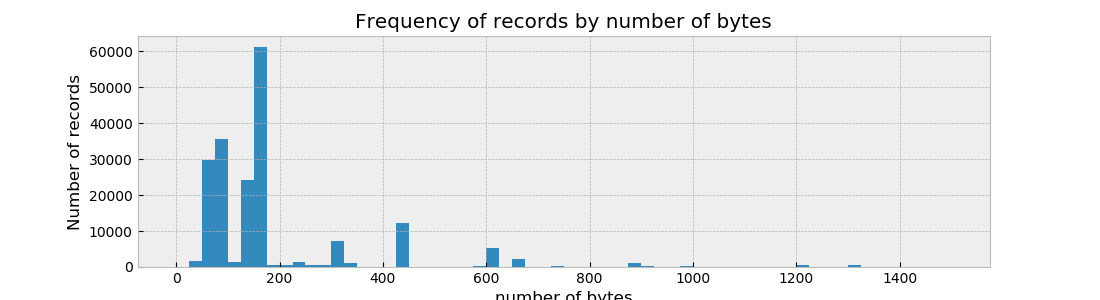
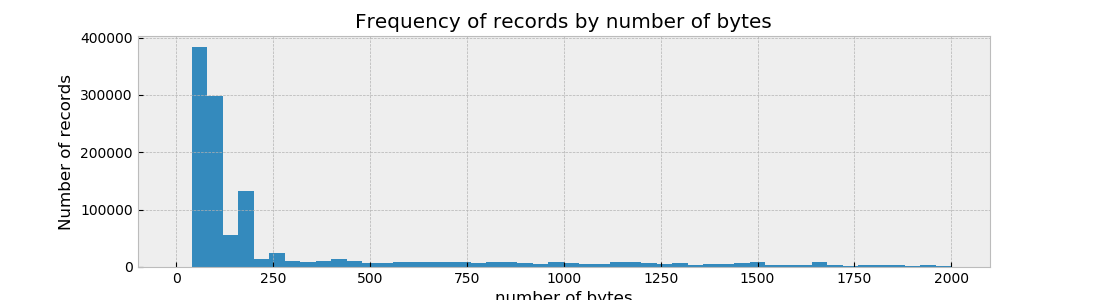
timediv fitting results

diff --git a/data/UGR16.py b/data/UGR16.py
@@ -6,40 +6,61 @@ import os
 def do_write(df, filename):
     # if file does not exist write header 
     if not os.path.isfile(filename):
-        df.to_csv(filename, header='column_names')
+        df.to_csv(filename, header='column_names', index=False)
     else: # else it exists so append without writing the header
-        df.to_csv(filename, mode='a', header=False)
+        df.to_csv(filename, mode='a', header=False, index=False)
 
-datafile = 'D:\\research_local_data\\april_week3_csv\\april_week3_csv\\uniq\\april.week3.csv.uniqblacklistremoved'
-# outputfile = 'output\\selected_data%s.csv'
-outputfile = 'output\\day_1_internal_ip_only.csv'
-# datafile = 'D:\\research_local_data\\spam_april_week3_csv\\april\\week3\\spam_flows_cut.csv'
+a_occur = {}
+target_colname = 'da'
+def cal_stats(df):
+    for r in zip(df[target_colname]):
+        if r[0] in a_occur:
+            a_occur[r[0]] += 1
+        else:
+            a_occur[r[0]] = 1
+
+
+normal_datafile = 'D:\\research_local_data\\april_week3_csv\\april_week3_csv\\uniq\\april.week3.csv.uniqblacklistremoved'
+spam_datafile = 'D:\\research_local_data\\spam_april_week3_csv\\april\\week3\\spam_flows_cut.csv'
+
+outputfile = 'output\\day_1_allinternalsada.csv'
+outputfile = 'output\\day_1_42.219.153.89.csv'
+
 columnName = ['te', 'td', 'sa', 'da', 'sp', 'dp', 'pr', 'flg', 'fwd', 'stos', 'pkt', 'byt', 'lable']
 theDate = '2016-04-11'
+theLocalIp = '42.219.153.89'
 theLocalIp = '42.219'
-userFilter = {}
+
 filteredList = []
 chunkNum = 0
 totalLines = 0
 
 starttime = datetime.now()
 chunksize = 10 ** 6
-for chunk in pd.read_csv(datafile, chunksize=chunksize, header=None, names = columnName):
-    first_rows = chunk.head(n=5)
-    # print(first_rows)
-    # print(chunk[0:1, 'te'].str.split(' ')[0])
-    
-    chunk = chunk[(chunk['te'].str.startswith(theDate)) & (chunk['sa'].str.startswith(theLocalIp))
-                    & (chunk['da'].str.startswith(theLocalIp))]
-    # print(chunk.head(n=5))
+
+for chunk in pd.read_csv(normal_datafile, chunksize=chunksize, header=None, names = columnName):    
+    block_time1 = datetime.now()
+    # chunk = chunk[(chunk['te'].str.startswith(theDate)) & 
+    #             ((chunk['sa'].str.startswith(theLocalIp)) | (chunk['da'].str.startswith(theLocalIp)))]
+    # chunk = chunk[(chunk['te'].str.startswith(theDate)) & (chunk['sa'].str.startswith(theLocalIp))]
+    chunk = chunk[chunk['te'].str.startswith(theDate) & chunk['da'].str.startswith(theLocalIp)]
+
     if (len(chunk.index) == 0):
-        break
+        continue
+        # break
     else:
         chunkNum += 1
         totalLines += len(chunk.index)
-        print(chunkNum, totalLines)
-        # chunk.to_csv(outputfile % chunkNum)
-        do_write(chunk, outputfile)
+        cal_stats(chunk)
+        print(len(chunk.index), "to write")
+        # do_write(chunk, outputfile)
+        block_time2 = datetime.now()
+        print("blockNum", chunkNum, "cur_total_record", totalLines, "time:", (block_time2-block_time1).seconds)
+    if chunkNum == 154:
+        break
+
+most_a = sorted( ((v,k) for k,v in a_occur.items()), reverse=True)
+print("most "+target_colname, most_a[:10])
 
 endtime = datetime.now()
 print('process time', (endtime-starttime).seconds)

diff --git a/algorithms/GaussianMixtureModel.py b/algorithms/GaussianMixtureModel.py
@@ -1,0 +1,68 @@
+import numpy as np
+import pandas as pd
+import matplotlib.pyplot as plt
+from sklearn import mixture 
+
+class SourceData(object):
+    def __init__(self, source_data):
+        self.all_record = pd.read_csv(source_data)
+        
+    def plot_source_distribution(self):
+        plt.style.use('bmh')
+        colors = ['#348ABD', '#A60628', '#7A68A6', '#467821', '#D55E00', 
+                '#CC79A7', '#56B4E9', '#009E73', '#F0E442', '#0072B2']
+
+        fig = plt.figure(figsize=(11,3))
+        _ = plt.title('Frequency of records by number of bytes')
+        _ = plt.xlabel('number of bytes')
+        _ = plt.ylabel('Number of records')
+        _ = plt.hist(self.all_record['byt'].values, 
+                    range=[0, 5000], bins=100, histtype='stepfilled')
+
+        fig.savefig('T00_data_dis')
+
+class GMMs(object):
+    def __init__(self, data_col, t_str, model='normal'):
+        X_train = np.reshape(data_col.values, (-1, 1))
+        if model == 'AIC':
+            self.build_models(X_train)
+        else:
+            clf = mixture.GaussianMixture(n_components=7, covariance_type='full')
+            clf.fit(X_train)
+
+            # x = np.linspace(np.min(X_train), np.max(X_train), len(X_train))
+            x = np.linspace(0, 5000, 5000)
+
+            # Plot the data to which the GMM is being fitted
+            x = np.reshape(x, (-1, 1))
+            logprob = clf.score_samples(x) # log-probabilities
+            pdf = np.exp(logprob)
+
+            resp = clf.predict_proba(x) # to predict posterior probabilities/ responsibilities
+            pdf_individual = resp * pdf[:, np.newaxis]
+
+            fig = plt.figure()
+            _ = plt.title('estimated pdf of 42.219.153.89 day 1, T=%s' % t_str)
+            _ = plt.xlabel('number of bytes')
+            _ = plt.ylabel('Number of records')
+            _ = plt.hist(data_col.values, density = 1,
+                    range=[0, 5000], bins=100, histtype='stepfilled')
+            _ = plt.plot(x, pdf, color='blue')
+            _ = plt.plot(x, pdf_individual, '--k')
+            fig.savefig('rect_timediv/T%s_gmm_pdf' % t_str)
+    
+    def build_models(self):
+        n_components = np.arange(1, 21)
+        models = [GaussianMixture(n, covariance_type='full', random_state=0).fit(X_train)
+          for n in n_components]
+
+if __name__ == "__main__":
+    # a = SourceData('./../data/output/T00_day_1_42.219.153.89.csv')
+    # a.plot_source_distribution()
+    t_str = '11'
+    for t in range(0, 24):
+        t_str = str(int(t/10)) + str(t%10)
+        a = SourceData('./../data/day_1_42.219.153.89/rectified_hour_division/T%s_day_1_42.219.153.89.csv' % t_str)
+        # a = SourceData('./../data/day_1_42.219.153.89/day_1_42.219.153.89.csv')
+    
+        b = GMMs(a.all_record['byt'], t_str)

diff --git a/data/split_timestamp.py b/data/split_timestamp.py
@@ -1,0 +1,39 @@
+import pandas as pd
+import os
+
+def do_write(df, filename):
+    # if file does not exist write header 
+    if not os.path.isfile(filename):
+        df.to_csv(filename, header='column_names', index=False)
+    else: # else it exists so append without writing the header
+        df.to_csv(filename, mode='a', header=False, index=False)
+
+def filter(source_data):
+    all_record = pd.read_csv(source_data)
+    print(all_record.tail())
+    for t in range(0, 24):
+        t_str = str(int(t/10)) + str(t%10)
+
+        print('2016-04-11 %s' % t_str),
+        df = all_record[all_record['te'].str.startswith('2016-04-11 %s' % t_str)]
+        print('=======')
+        print(df.head())
+        print(df.tail())
+        do_write(df, './../data/output/T%s_day_1_42.219.153.89.csv' % t_str)
+    
+def rectify_byt():
+    source_data = './../data/day_1_42.219.153.89/original_hour_division/T%s_day_1_42.219.153.89.csv'
+    for t in range(0, 24):
+        t_str = str(int(t/10)) + str(t%10)
+        df = pd.read_csv(source_data % t_str)
+        # print(df.head())
+        df['byt'] = df['byt'].map(lambda x: int((x+50)/100) * 100)
+        # print(df.head())
+        print(len(df.index))
+        # do_write(df, './../data/day_1_42.219.153.89/rectified_hour_division/T%s_day_1_42.219.153.89.csv' % t_str)
+
+if __name__ == "__main__":
+    # source_data = './../data/output/day_1_42.219.153.89.csv'
+    # filter(source_data)
+
+    rectify_byt()

diff --git a/MeetingNotes/Feb1.md b/MeetingNotes/Feb1.md
@@ -6,7 +6,7 @@ We want all day 1 records that include local ip addresses in SourceA _*or*_ Dest
 
 For a entire day, find 10/20 users occurs the most, and how many times they occures, in SA or DA.
 
-Look at each user over time temporally. For each hour or 15 minutes.
+Look at each user over time temporally, instead of mixing all users together. For each hour or 15 minutes.
 
 ## Bayesian Approach
 

diff --git a/MeetingNotes/Feb8.md b/MeetingNotes/Feb8.md
@@ -1,0 +1,4 @@
+# Feb 8 Meeting Keynote
+
+most sa [(10667863, '42.219.156.211'), (10664359, '42.219.156.231'), (5982859, '42.219.159.95'), (3995830, '42.219.153.191'), (2760867, '42.219.155.28'), (2126619, '42.219.153.62'), (2031099, '42.219.159.85'), (1740711, '42.219.158.156'), (1366940, '42.219.153.7'), (1342589, '42.219.153.89')]
+process time 797
